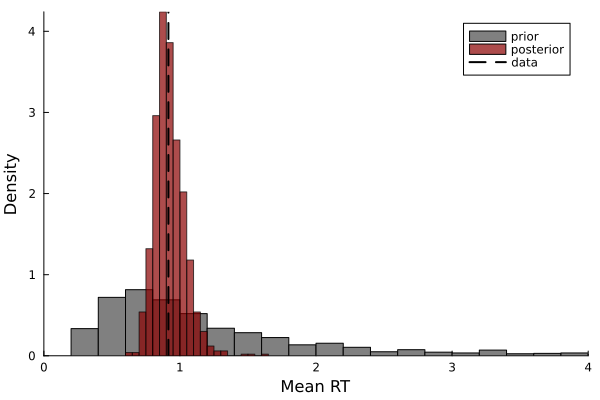
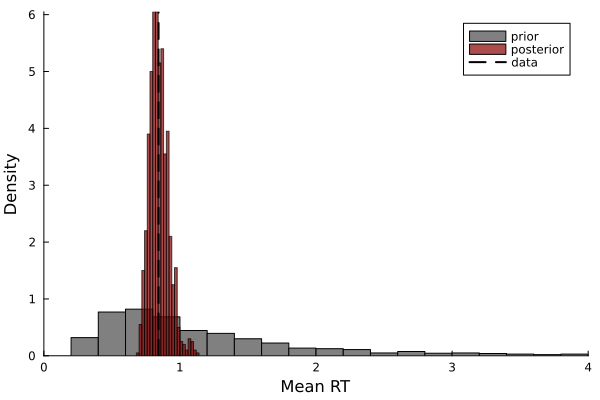
some ideas

diff --git a/docs/src/predictive_distributions.md b/docs/src/predictive_distributions.md
@@ -17,7 +17,7 @@ Random.seed!(1124)
 ## Generate Simulated Data
 We will use the [Wald](wald.md) model as a simple example to illustrate how to create predictive distributions. The `Wald` model describes the evidence accumulation process underlying single detection decisions, such as respending when a stimulus appears. In the code block below, we will generate 50 data points.
 ```julia
-n_samples = 50
+n_samples = 100
 rts = rand(Wald(ν=1.5, α=.8, τ=.3), n_samples)
 ```
 
@@ -90,3 +90,16 @@ plot_quantiles(q_data, post_quantile_preds)
 ![](assets/wald_predictive_qq_plots.png)
 
 The posterior predictive quantile-quantile plot above shows that the model fits the reaction time distribution well. This close match is to be expected, as we generated the data from the same model. 
+
+## Posterior Predictive Distribution of Densities
+
+As an alternative to a quantile-quantile plot, we can evaluate the probability density function of the model at a series of time points and plot the densities against the histogram or kernel density of the data. In the current example, we will plot the posterior predictive densities against a normalized histogram of the data because the kernel density is unstable with only 100 data points.
+
+```julia
+t_range = range(.2, 3, length=150)
+pred_density = predict_density(Wald; model, t_range)
+post_density_preds = generated_quantities(pred_density, post_chain)
+histogram(rts, color=:grey, grid=false, norm=true, xlabel="RT [s]", ylabel="Density")
+plot!(t_range, post_density_preds[:], alpha =.05, leg=false, color=:darkred)
+```
+![](assets/wald_predictive_density.png)
